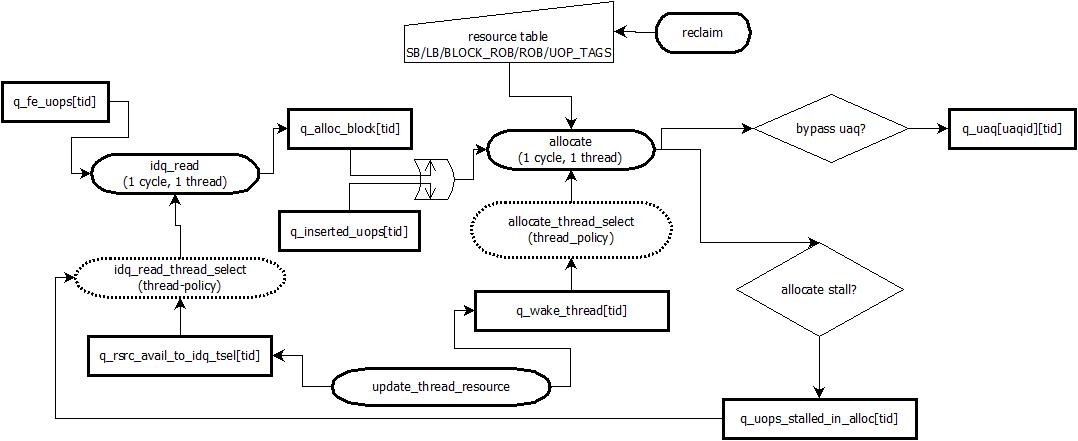
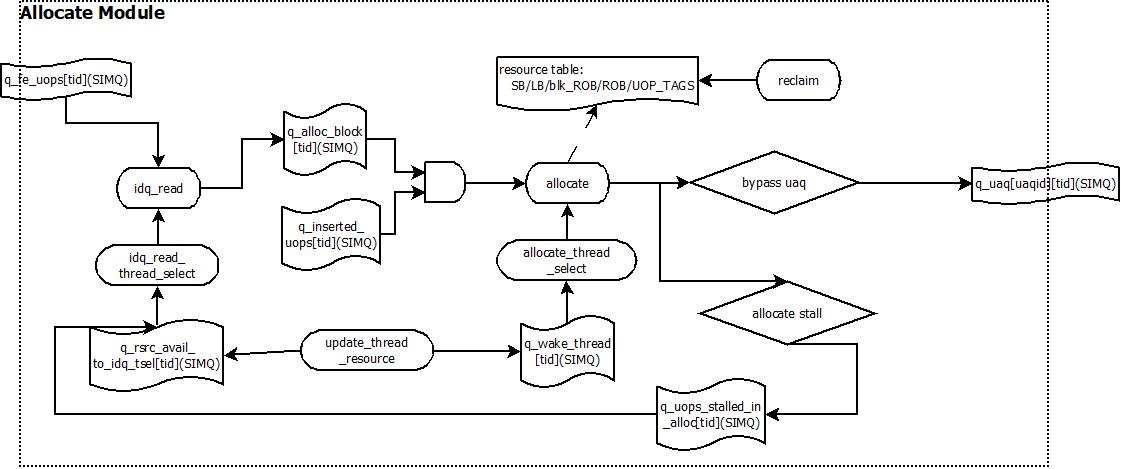
update ixxxx doc

diff --git a/work/ixxxx_model/allocate.md b/work/ixxxx_model/allocate.md
@@ -2,11 +2,35 @@
 
 ## Allocate特性
 
-TBD
+- 每周期支持最多setting_width(4)个uop的renaming和allocate的处理
+- memory renaming和register renaming机制
+- partial eFLAG和 partial register的处理
+- 支持branch的checkpoint的机制(setting_br_checkpoint || setting_periodic_checkpoint)
+- 多种分配rob/load buffer/store buffer的算法支持(static-partition / dynamic sharing)
+- src operand的rob read port的分配算法
+- 支持lock predictor
 
 ## Allocate的仿真流程结构
 
-TBD
+![alloc_stru](dia/alloc_stru.jpeg)
+
+对于allocate stage来说，主要的工作在于完成backend各种硬件资源的分配，根据数据流分析的依据，将指令按照true-dependency的方式进行依赖分析，这里的分析主要包括两个部分：寄存器依赖和内存依赖(memory renaming)。同时，完成指令集架构上的特定优化策略。而在硬件时序上，allocate stage并不复杂，只完成了两件主要的事情：
+
+- 读取idq中的解码后的Uop
+- 完成uop的资源分配和重命名工作
+
+在模拟器中，allocate阶段主要实现了如下的功能：
+
+- 各种backend资源的分配，包括(ROB/branch color/LB/SB)
+- lock指令的预测——针对lock load
+- 寄存器的重命名——包括src / dst operands
+- partial eflag / register的处理——对于X86指令集，某些通用寄存器允许局部读、写
+- 内存重命名——memory renaming——包括load / std, load / sta之间的依赖关系处理
+- 针对X86指令集语义的特定优化
+
+针对于SMT的处理器来说，allocate stage是一个共享的stage，所以有大部分的功能集中于如何选择一个phythread用于当前周期执行allocate的逻辑。
+
+所以，对于allocate stage主要集中于功能实现，和 SMT的线程切换、管理功能，而不重点分析时序逻辑结构
 
 ## Allocate的Pipeline结构
 
@@ -14,24 +38,242 @@ TBD
 
 ## Allocate Pipeline在模拟器中实现
 
-TBD
+对于allocate stage来说，功能的实现大于对于性能和时序的实现，这里主要总结下模拟器中使用的一些SIMQ，这些SIMQ的大小和latency反映了allocate stage内部的一些时序情况
 
-## SMT下的Allocate管理
+| SIMQ name                             | Size                         | Latency          | Type | Location   |
+| ------------------------------------- | ---------------------------- | ---------------- | ---- | ---------- |
+| q_bigflush_reclaim[tid]               | bigflush_latency+1           | bigflush_latency | Uop  | ROB->alloc |
+| q_alloc_to_idq[tid]<br />\<not used\> | setting_width(4)             |                  | N.A  | N.A        |
+| q_inserted_uops[tid]                  | UOP_NSRC(10)*2               | 0                | Uop  | internal   |
+| q_alloc_block[tid]                    | setting_width\*max_fused_uop | 0                | Uop  | internal   |
+| q_wake_thread[tid]                    | 1                            | wake_latency     | bool | internal   |
+| q_rsrc_avail_to_idq_tsel[tid]         | rsrc_idq_size                | rsrc_idq_latency | bool | internal   |
+| q_uops_stalled_in_alloc[tid]          | alstall_size                 | alstall_latency  | bool | internal   |
 
-TBD
+**<u>表中size / latency的说明</u>**
 
-### phythread的allocate status
+- bigflush_latency = setting_bpmiss_latency(30) - setting_fetch_to_alloc_latency(16) - setting_alloc_to_exec_latency(8) = 6
+- wake_latency = setting_alloc_rsrc_avail_compute_latency(2) - setting_alloc_clock(2) = 0
+- rsrc_idq_size = (setting_alloc_rsrc_avail_to_idq_tsel_latency(4) / setting_alloc_clock(2))+2 = 4
+- rsrc_idq_latency = setting_alloc_rsrc_avail_to_idq_tsel_latency = 4
+- alstall_size = (setting_allocate_tsel_alstall_latency(4) / setting_alloc_clock(2))+2 = 4
+- alstall_latency = setting_allocate_tsel_alstall_latency = 4
 
-TBD
+## Allocate的SMT管理
 
-### working thread的调度策略
+allocate stage对于SMT的系统来说是一个共享的stage，这个stage的phythread管理主要完成两方面的工作
 
-TBD
+- idq_read的phythread选择
 
-### allocate的工作条件
+  每周期选择一个phythread用于读取最多setting_width(4)个uop到allocate stage进行处理
 
-TBD
+- allocate的phythread选择
+
+  每周期选择一个phythread用于进行最多setting_width(4)个uop的allocate
+
+### idq_read的phythread处理
+
+#### Phythread的仲裁策略
+
+在选择哪个phythread可以读取IDQ时，模拟器使用的策略如下：
+
+- phythread priority parking机制 (local_thread_priority)
+
+  当allocate遇到阻塞idq read的情况时，将下一次首先进行仲裁的phythread设置为阻塞idq read的phythread；否则按照下面的round-robin策略，将当前T选择出来的phythread+1作为下一次的仲裁开始phythread
+
+- round-robin仲裁策略
+
+  从local_thread_priority的phythread开始轮询所有的phythread，直到找到一个符合条件的phythread
+
+  - 对于setting_periodic_checkpoint(1)的配置，查看当前T是否处于checkpoint的recovery周期，如果是，当前T直接选择对应的phythread
+  - 当前phythread的IDQ有新的uop解码出来
+  - 当前phythread的allocate stage存在没有allocate的uop——已经从IDQ读取，但是没有allocate完成
+  - 当前phythread有可分配的resource——从allocate stage传递过来的信号
+
+  当上面的条件无法同时满足时，则按如下策略选择phythread(条件只要满足其中之一即可)
+
+  - 当前phythread的IDQ有新的uop解码出来
+  - 当前phythread的allocate stage存在没有allocate的uop——已经从IDQ读取，但是没有allocate完成
+
+  当找到一个符合条件的phythread后，更新phythread priority parking机制
+
+#### idq_read的工作条件
+
+当模拟器冲裁出一个idq_read的phythread后，要检查当前phythread的条件是否可以继续进行idq_read
+
+- idq_read_active——当前是否处于allocate的mis-predict的flush周期内
+
+  当backend发现一个branch出现预测错误的时候，会立刻flush frontend和allocate stage。但是flush信号从backend传递到frontend需要一定的delay，所以在这个过程中，allocate不能读取IDQ中的uop——属于obsolete的uop
+
+- 之前读入allocate阶段的uop已经全部被allocate(can_read_new_uops)
+
+- 读入到allocate阶段的uop(num_uops_in_alloc_block) == setting_width(4)，这里不计算fused uop——实际就是会占用ROB单元的uop
+
+- 如果fxch_alloc_restriction(1)，那么fxch指令必须当前allocate的最后一条uop
+
+- 如果当前周期内含有branch uop，那么处理的branch uop个数必须小于setting_restrict_branch_alloc_per_clock(0)
+
+### allocate的phythread处理
+
+原则上，allocate阶段的phythread会选择上一个周期进行IDQ读取的phythread，但是，有两个特殊的情况需要考虑：
+
+- 当前的allocate stage被某一个phythread独占——这个独占主要在于allocate对于某些特殊情况可能要动态插入uop，这时会stall idq_read
+- 某个phythread的硬件资源(rsrc_avail)刚刚可用(上一个T不可用，本T可用)
+
+## Allocate Stage分配的资源
+
+在Allocate阶段会进行所有backend的硬件资源分配，这些资源主要包括
+
+| resource                                                 | size                                                         |
+| -------------------------------------------------------- | ------------------------------------------------------------ |
+| store buffer                                             | setting_rob_partitioned(1)<br />       setting_num_sb(32) / num_active_phythreads<br />else<br />       setting_num_sb(32) |
+| load buffer                                              | setting_rob_partitioned(1)<br />       setting_num_lb(48) / num_active_phythreads<br />else<br />       setting_num_lb(48) |
+| rob                                                      | setting_rob_partitioned(1)<br />       setting_rob_size(128) / num_active_phythreads<br />else<br />       setting_rob_size(128) |
+| rob_block                                                | rob_size / setting_width(4)                                  |
+| uaq(uop allocation queue)                                | 由pb文件指定其大小，在目前的配置中为24                       |
+| uoptags                                                  | setting_uoptags_partitioned(0)<br />       setting_rob_partitioned(1)<br />             setting_num_uoptags(setting_rob_size(128)-nthread(2)*23) / num_active_phythreads<br />       else<br />             setting_num_uoptags<br />else<br />       phytid[0] = setting_num_uoptags<br />       phytid[!0] = 0 |
+| br_checkpoints<br />\<setting_br_checkpoint\>            | setting_br_checkpoint(0) / nthread                           |
+| periodic_checkpoint<br />\<setting_periodic_checkpoint\> | setting_periodic_checkpoint(4) / nthread                     |
+
+- **<u>ROB</u>**
+- **<u>load buffer</u>**
+- **<u>store buffer</u>**
+- **<u>uoptags</u>**
+- **<u>branch color</u>**
+
+## uISA的Uop指令格式
+
+
 
 ## 功能实现
 
-TBD
+**<u>IDQ read</u>**
+
+当allocate阶段冲裁出来一个phythread进行IDQ的读取后，这个stage完成的功能相对非常简单
+
+- 从IDQ中读出uop，将其放入到allocate stage的q_alloc_block中，这个SIMQ可以认为是内部的一个stage buffer
+- 如果当前配置setting_allocate_tsel_perfect(1)仲裁策略，那么当前T轮询所有符合idq_read条件的phythread
+
+**<u>Resource Update</u>**
+
+更新allocate阶段所有处于stall状态的phythread(alloc_sleep_reason)，如果等待的硬件资源已经可用，那么将对应的phythread唤醒，将其加入到后续的allocate stage的arbitration。并将当前的phythread的资源可用状态(rsrc_avail)通知到idq_read阶段。这里，存在3中可能情况：
+
+- phythread有资源可用，直接跳过
+
+- phythread因为某种资源而stall
+
+  统计当前T等待的唤醒资源状态，如果资源已经变得可用，那么加入唤醒逻辑，并表示当前phythread处于唤醒过程中；如果依然不可用，那么继续等待
+
+  - ROB
+
+    - ! setting_rob_shared(0), static_partition,   当前phythread对应的logic thread处于active，且有rob空间
+
+    - setting_rob_limits(0), 静态设置每个phythread的rob大小， 同上
+
+    - setting_rob_dynamic(0), 根据IPC情况动态分配，同上
+
+    - setting_rob_shared(1), shared，不区分彼此容量
+
+      这种情况下是否可分配的方法：
+
+      每个phythread有一个reserved的rob容量(min_rob_alloc)，统计其他phythread的rob使用情况——只统计超过min_rob_alloc的部分，如果shared的总量 - 超出的总量 - (min_rob_alloc*phythread-1)还有容量，那么可以分配
+
+  - LB
+
+    - ! setting_rob_shared(0), static_partition,   当前phythread对应的logic thread处于active，且有lb空间
+
+    - shared，不区分彼此容量
+
+      这种情况下是否可分配的方法：
+
+      每个phythread有一个reserved的lb容量(min_rob_alloc)，统计其他phythread的lb使用情况——只统计超过min_rob_alloc的部分，如果shared的总量 - 超出的总量 - (min_rob_alloc*phythread-1)还有容量，那么可以分配
+
+  - SB
+
+    - ! setting_rob_shared(0), static_partition,   当前phythread对应的logic thread处于active，且有sb空间
+
+    - shared，不区分彼此容量
+
+      这种情况下是否可分配的方法：
+
+      每个phythread有一个reserved的sb容量(min_rob_alloc)，统计其他phythread的sb使用情况——只统计超过min_rob_alloc的部分，如果shared的总量 - 超出的总量 - (min_rob_alloc*phythread-1)还有容量，那么可以分配
+
+  - RS
+
+    - ! block_alloc_rs(0), allocate rs in block mode——同一个T的需要allocate的uop都可以进入RS(这里只考虑当前allocate有多少个uop，而不考虑是否是否占用RS entry)，只考虑单个uop的情况
+    - block_alloc_rs_only_remaining(0), 只考虑当前剩下的未分配的allocate uop(num_uops_in_alloc_block)
+    - block_alloc_rs(1), 考虑当T需要allocate的所有uop(orig_num_uops_in_alloc_block)
+
+    判断的方法：
+
+    - ! setting_rob_shared(0)
+
+      - setting_sched_thread_partition(0), scheduler shared， 根据当前的scheduler arbitration策略(setting_schedule_policy{POLICY_THREAD_UNAWARE})，对于，thread_unware，则直接查找所有的scheduler的占用情况，查看是否还有容量可以分配
+      - ! setting_sched_thread_partition, static partition, TBD，在看scheduler的时候需要注意以下
+
+    - shared，不区分彼此容量
+
+      每个phythread有reserved的rs容量(min_rob_alloc)，统计reserved的容量和当前已经动态分配的容量，如果还有容量，可以分配
+
+  - IDQ_EMPTY
+
+    当前有新的uop在IDQ中
+
+  - SCOREBOARD
+
+    MSROM中的标有SETSCORE的uop已经从pipeline中retire了
+
+  - BR_COLOR(br_checkpoint)
+
+    - 当前T没有处于mis-predict的flush周期中
+    - 如果处于mis-predict的flush周期中，需要查看下一个branch_color是否valid
+
+    mis-predict的flush周期只影响当前T的allocate，意味着flush周期为1T
+
+- phythread等待的资源已经可用，正在处于唤醒的过程中
+
+  - 唤醒逻辑已经唤醒了phythread(q_wake_thread ready)，那么清除stall状态
+  - 唤醒逻辑还没有ready，那么继续等待
+
+**<u>Allocate-stall Check</u>**
+
+allocate stall的检查，这里主要是检查allocate stage对于各种backend的硬件资源的分配是否可以满足当前T中需要进行allocate的uops的个数。具体的操作如下：
+
+- 对于使能block stall check的情况
+
+  - block_alloc_sb(1) | block_alloc_lb(1) | block_alloc_uaq(1)
+
+    判断当前周期的空余entries个数是否<setting_width(4)
+
+  - block_alloc_rs(0) && setting_bypass_uaq(1)
+
+    判断当前rs中的空余entries个数是否<当前T需要allocate的uop个数(block_alloc_rs_only_remaining)，将状态直接置为BLOCK_RS
+
+- 对于每一个uop而言(包括fused uop)
+
+  - 当前的allocate stage没有stall且处于active状态
+  - 处理的uop个数<=setting_width(4)，这种case不会发生？
+  - 不存在block stall的情况(基于上面介绍的block stall check)或是某个uop终止了allocate stage(last_uop_ended_allocation_block)
+  - 当前thread没有可用的uop用于allocate且没有需要动态插入的uop，那么结束本次allocate，对于perfect的策略，那么设置当前phythread为IDQ_EMPTY
+  - 对于! dead_at_rat的uop
+    - 对于MSROM中的uop，如果带有READSCORE的属性，且串行的uop还没有retire，那么需要stall，设置为STALL_SCOREBOARD，当前phythread进入sleep状态
+    - 设置enable_fp_partial_flag_stall(0)，如果当前uop是merge_fc320_fc1，且fc1和fc320的writer(至少有1个valid)不同，设置stall_fp_partial_flag
+    - 设置allocate_restrict_num_fcw_writes(1)，如果当前的dst_reg == FCW0，且fcw_writer_num == num_fcw_writes_allowed(7)，设置stall_fcw
+    - 设置allocate_block_rob(0)，对于按照block方式(rob_size/setting_width)进行分配的ROB，如果当前rob entry不够，设置为stall_brob，当前phythread进入sleep状态
+    - 对于非micro/macro-fusion的指令，rob的空闲数量 < mrn_mov_generated的动态uop + rob_req(1)的uop个数，设置为stall_rob，当前phythread进入sleep状态
+    - 
+
+**<u>Lock Predict</u>**
+
+**<u>Resource Allocation</u>**
+
+**<u>Memory Dependency Check</u>**
+
+**<u>Memory Renaming</u>**
+
+**<u>Register Renaming</u>**
+
+**<u>branch handling</u>**
+
+
+

diff --git a/work/ixxxx_model/uISA.md b/work/ixxxx_model/uISA.md
@@ -1,6 +1,6 @@
 [TOC]
 
-## Uop的属性信息
+## Uop的标记属性信息
 
 在X86指令进行解码的时候，模拟器中的decoder会给解码后的uop标注不同的属性信息，这些信息完全由decoder和uISA的设计决定。在当前的模拟器中，主要有如下的uop属性
 
@@ -48,3 +48,18 @@
 | EOTOP                |                                                              |
 | QUESTIONABLE         |                                                              |
 
+## Uop的运行时属性
+
+- dead_at_rat——在rat端结束，且不进入rob的uop
+  - 完美后端
+  - esp folding的指令
+- exec_at_rat——在rat端执行，直接进入rob等待retire的uop
+  - dead_at_rat的uop
+  - fxchg指令，配置setting_bypass_fxchg(1)
+  - zero_idiom的uop——\*xor/\*sub，配置setting_bypass_zero_marks(0)
+  - mov_idiom(reg2reg的mov且dst不能是partial reg)，配置setting_bypass_moves(0)
+    - setting_bypass_moves == 2的情况(X86级别优化)，当前的uop不对应1条uop，false
+    - setting_bypass_moves == 1的情况(uop级别优化)，当前的模拟器版本中，只有GP/STx/SSE寄存器可以优化
+- 不占用rob资源的uop
+  - macro/micro-fusion的指令
+  - dead_at_rat的指令

diff --git a/work/repo.md b/work/repo.md
@@ -139,6 +139,31 @@ ssh -X cpuroom@10.29.244.122
      ./build.py -mp
      ```
 
+#### DV Vector生成环境
+
+运行Core RTL的仿真时，需要建立对应的可执行文件影响，在ZX的DV环境中这被称为AVP或是IC文件。AVP/IC文件的建立步骤：
+
+```bash
+# CHX002 env setup
+source /ctwrk/chx002/verification/tpg/bin/chx002a2.cshrc
+
+/haydn/verification/tpg/zxe/bin/release/090816/rasm_40bit/rasm xxx.asm
+/haydn/verification/cnsim/release/chx002a2/cnsim/cnsim.chx002a2 -ma 200000 xxx.avp
+
+# or just use /tmp_space/arch_T3/sw/dv_env/gen.sh to build & run asm code
+```
+
+将生成好的ic文件打包为gz格式的压缩文件
+
+#### Simulation环境
+
+进入/tmp_space/arch_T3/sw的目录
+
+- CHX002环境：chx002_a2_simulation目录
+- CHX003环境：chx003_a0_simulation目录
+
+将DV vector环境中生成的ic压缩文件copy到simulation目录，并修改run脚本中的需要运行的ic文件，在终端执行`./run`运行仿真
+
 ### 软件虚拟机环境中的环境建立
 
 #### 拷贝文件
